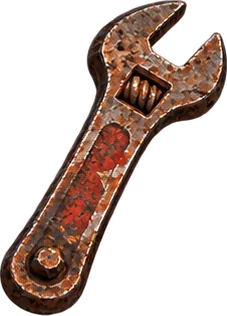
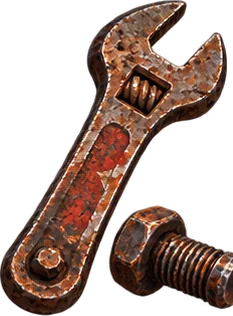
Story art: sliced, named WebP assets, typed asset module and guide
- src/assets/story/{backgrounds,endings,portraits,titles,props}: 68 game-ready files
- src/game/story/assets.ts: typed helpers (storyPortrait, storyBackground, ...)
- src/assets/story/README.md and _preview.jpg: what each file is and when to use it

diff --git a/src/game/story/assets.ts b/src/game/story/assets.ts
@@ -1,0 +1,88 @@
+/**
+ * Story mode art, ready to use. Every file under `src/assets/story/` is reachable through the typed helpers
+ * below, so story code never hard-codes a path. See `src/assets/story/README.md` for previews and notes.
+ *
+ * Importing this module pulls every story image into the bundle (the game builds to one inlined file), so import it
+ * only from story code.
+ */
+
+const files = import.meta.glob<string>('../../assets/story/**/*.webp', { eager: true, import: 'default' });
+
+function url(folder: string, name: string): string {
+  const hit = files[`../../assets/story/${folder}/${name}.webp`];
+  if (!hit) throw new Error(`Missing story asset: ${folder}/${name}.webp`);
+  return hit;
+}
+
+/** Portrait moods available per character. The Hood has two separate sets: before and after the chapter 5 reveal. */
+export const STORY_PORTRAITS = {
+  'sprocket': ['happy', 'sad', 'smug', 'shocked'],
+  'ace-spadegrin': ['angry', 'happy', 'surprised', 'sad', 'smug', 'shocked'],
+  'duchess-vex': ['angry', 'happy', 'surprised', 'sad', 'smug', 'shocked'],
+  'old-smokey': ['angry', 'happy', 'surprised', 'sad', 'smug', 'shocked'],
+  'zapp-gutwrench': ['angry', 'happy', 'surprised', 'sad', 'smug', 'shocked'],
+  /** Face hidden in shadow. `stern` and `grimace` face LEFT, `smirk` and `snarl` face RIGHT. */
+  'the-hood-hidden': ['stern', 'smirk', 'snarl', 'grimace'],
+  /** Face visible. Only after the reveal. */
+  'the-hood-revealed': ['ashamed', 'angry', 'determined', 'relieved'],
+} as const;
+
+export type StoryCharacter = keyof typeof STORY_PORTRAITS;
+export type StoryMood<C extends StoryCharacter> = (typeof STORY_PORTRAITS)[C][number];
+
+/** Which way the portrait faces, for placing speakers on the left/right of a dialogue scene. Default: right. */
+export function portraitFacing(character: StoryCharacter, mood: string): 'left' | 'right' {
+  return character === 'the-hood-hidden' && (mood === 'stern' || mood === 'grimace') ? 'left' : 'right';
+}
+
+export function storyPortrait<C extends StoryCharacter>(character: C, mood: StoryMood<C>): string {
+  return url('portraits', `${character}_${mood}`);
+}
+
+export const STORY_BACKGROUNDS = [
+  'scrapyard-at-dusk',
+  'apex-racing-garage',
+  'grandstand-race-day',
+  'old-smokey-training-shack',
+  'vex-gilded-office',
+  'pit-lane-at-night',
+  'mine-control-room',
+  'finale-podium',
+] as const;
+export type StoryBackground = (typeof STORY_BACKGROUNDS)[number];
+export const storyBackground = (name: StoryBackground) => url('backgrounds', name);
+
+export const STORY_ENDINGS = ['champion-ending', 'bittersweet-ending', 'heartbreak-ending'] as const;
+export type StoryEnding = (typeof STORY_ENDINGS)[number];
+export const storyEnding = (name: StoryEnding) => url('endings', name);
+
+export const STORY_ACTS = ['act-1-the-rookie', 'act-2-the-rise-and-the-fall', 'act-3-down-we-go'] as const;
+export const STORY_CHAPTERS = [
+  'chapter-1-the-scrapyard-kid',
+  'chapter-2-street-smarts',
+  'chapter-3-old-smokeys-lessons',
+  'chapter-4-the-deal',
+  'chapter-5-the-hood',
+  'chapter-6-down-we-go',
+] as const;
+/** Act banner for act 1..3 (the lettering is part of the art). */
+export const actBanner = (act: 1 | 2 | 3) => url('titles', STORY_ACTS[act - 1]);
+/** Chapter plaque for chapter 1..6; chapter N is Grand Prix N-1 in `CALENDAR`. */
+export const chapterPlaque = (chapter: 1 | 2 | 3 | 4 | 5 | 6) => url('titles', STORY_CHAPTERS[chapter - 1]);
+
+export const STORY_PROPS = [
+  'contract-scroll',
+  'wrench-and-bolt',
+  'cracked-marble',
+  'folded-hood',
+  'iron-trophy',
+  'gold-coin-bag',
+  'mine-blueprint',
+  'old-racing-helmet',
+  'framed-photo',
+  'dynamite-bundle',
+  'lantern',
+  'checkered-flag',
+] as const;
+export type StoryProp = (typeof STORY_PROPS)[number];
+export const storyProp = (name: StoryProp) => url('props', name);

diff --git a/src/assets/story/README.md b/src/assets/story/README.md
@@ -1,0 +1,75 @@
+# Story mode art
+
+Game-ready story art for the **Story mode epic (#22)**. Everything is sliced, resized and converted to WebP. The high-resolution sources are in `assets/story/` (don't import from there).
+
+**Use `src/game/story/assets.ts` instead of paths.** It exposes typed helpers, so a wrong name is a type error:
+
+```ts
+import { storyPortrait, portraitFacing, storyBackground, storyEnding, actBanner, chapterPlaque, storyProp } from '../game/story/assets';
+
+storyPortrait('old-smokey', 'sad');           // string URL
+storyPortrait('the-hood-hidden', 'smirk');    // before the reveal
+storyBackground('vex-gilded-office');
+storyEnding('heartbreak-ending');
+actBanner(2); chapterPlaque(5);
+storyProp('contract-scroll');
+```
+
+`_preview.jpg` in this folder shows every image with its name.
+
+Budget: 68 files, about 3.8 MB. The game builds to one inlined HTML file, so only import `assets.ts` from story code. Don't add more images without resizing them the same way.
+
+## backgrounds/ (1280×720, full background)
+Dialogue scenes. Each keeps the lower third calm for the dialogue box. Use `object-fit: cover` for phones.
+
+| Name | Scene / suggested use |
+|---|---|
+| `scrapyard-at-dusk` | Sprocket's home. Intro, Act I opening |
+| `apex-racing-garage` | Team garage. Pre-race briefings |
+| `grandstand-race-day` | Paddock and grandstand. Pre-race banter, rival confrontations |
+| `old-smokey-training-shack` | Old Smokey's shack. Mentor scenes, training montage |
+| `vex-gilded-office` | Duchess Vex's office. The deal (Act II) |
+| `pit-lane-at-night` | After the sabotage and crash. Midpoint low (Act II) |
+| `mine-control-room` | Vex's rig in the mine. Villain reveal (Act III) |
+| `finale-podium` | Finale podium, night. Pre-finale and results |
+
+## endings/ (1280×960, full background)
+| Name | Characters shown |
+|---|---|
+| `champion-ending` | Sprocket (1st, trophy), Old Smokey, Ace Spadegrin (2nd), The Hood, Duchess Vex (background) |
+| `bittersweet-ending` | Ace (1st), The Hood (2nd), Sprocket (3rd), Old Smokey |
+| `heartbreak-ending` | Sprocket with a cracked marble, Old Smokey with an umbrella, Zapp Gutwrench (background) |
+
+## portraits/ (256×256, transparent, head-and-shoulders)
+Named `<character>_<mood>.webp`. They face **right** unless noted, and share the bottom-aligned bust framing of the race portraits.
+
+| Character | Moods |
+|---|---|
+| `sprocket` | happy\*, sad, smug, shocked |
+| `ace-spadegrin` | angry, happy, surprised, sad, smug, shocked |
+| `duchess-vex` | angry, happy, surprised, sad, smug, shocked |
+| `old-smokey` | angry, happy, surprised, sad, smug, shocked |
+| `zapp-gutwrench` | angry, happy, surprised, sad, smug, shocked |
+| `the-hood-hidden` | stern (faces **left**), smirk, snarl, grimace (faces **left**). Face in shadow; use **before** the chapter 5 reveal |
+| `the-hood-revealed` | ashamed, angry, determined, relieved. Use **only after** the reveal |
+
+\* `sprocket_happy` is garage driver 1's portrait. It has the square painted background of the player sheet, unlike the transparent ones. Show it inside the ring frame (`Portrait` / `.kit-portrait`) so the background is hidden.
+
+`angry`, `happy` and `surprised` for the rivals are the same art the race uses (`src/assets/portraits/rNN_*.webp`), copied here under readable names.
+
+## titles/ (transparent, lettering included)
+| Name | Text |
+|---|---|
+| `act-1-the-rookie` | ACT I: THE ROOKIE |
+| `act-2-the-rise-and-the-fall` | ACT II: THE RISE AND THE FALL |
+| `act-3-down-we-go` | ACT III: DOWN WE GO |
+| `chapter-1-the-scrapyard-kid` | Chapter 1, Marblehurst GP |
+| `chapter-2-street-smarts` | Chapter 2, Monte Pipo |
+| `chapter-3-old-smokeys-lessons` | Chapter 3, Silverpeg |
+| `chapter-4-the-deal` | Chapter 4, Spa-Francoroll |
+| `chapter-5-the-hood` | Chapter 5, Suzuka Spiral |
+| `chapter-6-down-we-go` | Chapter 6, Yas Marble finale |
+
+## props/ (≤320 px, transparent)
+Pop-up items for scenes ("Vex slides the contract across…"):
+`contract-scroll`, `wrench-and-bolt`, `cracked-marble`, `folded-hood`, `iron-trophy`, `gold-coin-bag`, `mine-blueprint`, `old-racing-helmet`, `framed-photo` (two old racers, faces unclear; suggested use: young Old Smokey and The Hood), `dynamite-bundle`, `lantern`, `checkered-flag`.
